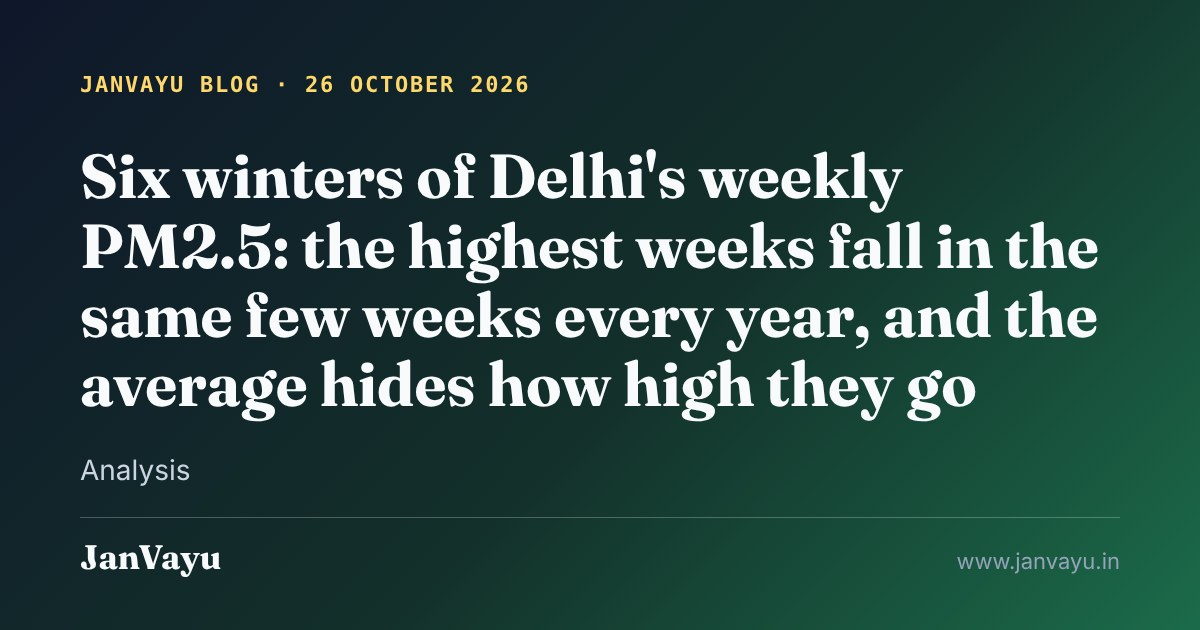
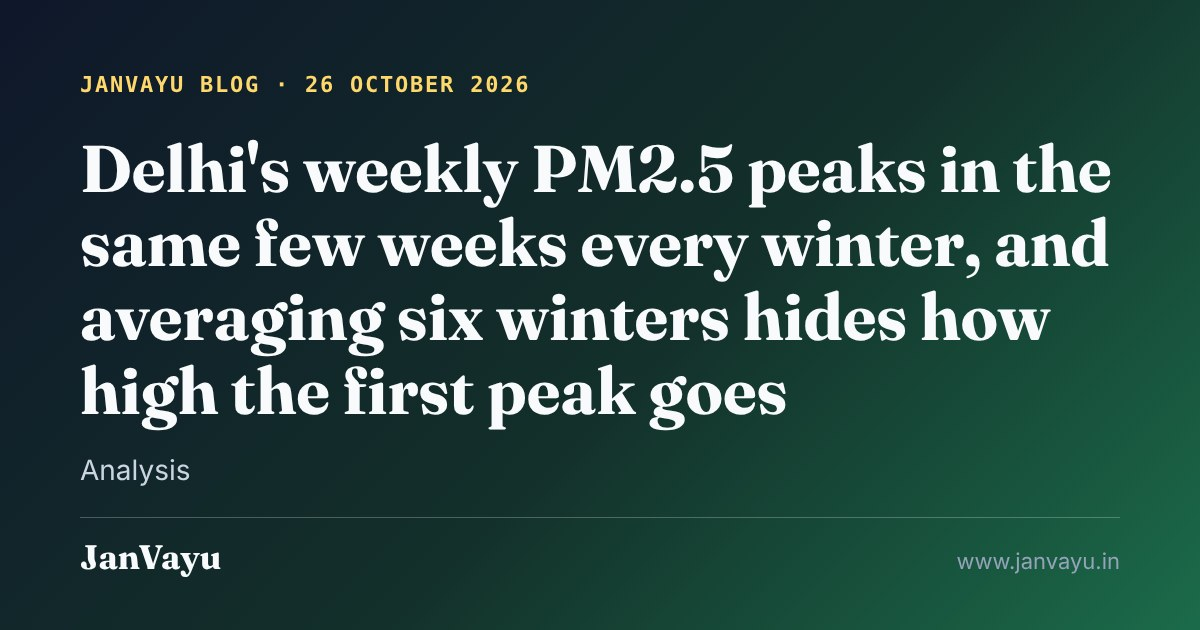
Update: lead the Delhi weekly PM2.5 post with findings, move the method to the end
The first version opened with a pipeline spec, used a colon title, hung two
sentences on colons and closed with a will and will not list that restated
the findings. The post now leads with the result, drops the colon forms,
puts where the numbers come from after the argument, and ends on the
reading rule. Facts and figures are unchanged.

Claude-Session: https://claude.ai/code/session_01ArXSkL7dvMWGkK3S6vfMTK

Changed region(s): [[0.0617, 0.2111, 0.925, 0.6937]]

diff --git a/blog/2026-10-26-delhi-six-winters-weekly-pm25/index.html b/blog/2026-10-26-delhi-six-winters-weekly-pm25/index.html
@@ -4,31 +4,31 @@
 <meta charset="UTF-8">
 <meta name="viewport" content="width=device-width, initial-scale=1.0">
 <!-- Generated by scripts/build-share.py from blog/posts/2026-10-26-delhi-six-winters-weekly-pm25.md. Edit the Markdown, then re-run the script. -->
-<title>Six winters of Delhi&#x27;s weekly PM2.5: the highest weeks fall in the same few weeks every year, and the average hides how high they go | JanVayu Blog</title>
+<title>Delhi&#x27;s weekly PM2.5 peaks in the same few weeks every winter, and averaging six winters hides how high the first peak goes | JanVayu Blog</title>
 <meta name="description" content="CEEW, the Council on Energy, Environment and Water, has posted a chart on LinkedIn titled &quot;Delhi&#x27;s air pollution peaks twice each winter&quot;. It plots Delhi&#x27;s weekly average PM2.5 from CPCB data, May…">
 <!-- share-meta:start -->
 <link rel="canonical" href="https://www.janvayu.in/blog/2026-10-26-delhi-six-winters-weekly-pm25/">
 <meta property="og:site_name" content="JanVayu">
 <meta property="og:locale" content="en_IN">
 <meta property="og:type" content="article">
-<meta property="og:title" content="Six winters of Delhi&#x27;s weekly PM2.5: the highest weeks fall in the same few weeks every year, and the average hides how high they go">
+<meta property="og:title" content="Delhi&#x27;s weekly PM2.5 peaks in the same few weeks every winter, and averaging six winters hides how high the first peak goes">
 <meta property="og:description" content="CEEW, the Council on Energy, Environment and Water, has posted a chart on LinkedIn titled &quot;Delhi&#x27;s air pollution peaks twice each winter&quot;. It plots Delhi&#x27;s weekly average PM2.5 from CPCB data, May…">
 <meta property="og:url" content="https://www.janvayu.in/blog/2026-10-26-delhi-six-winters-weekly-pm25/">
 <meta property="og:image" content="https://www.janvayu.in/og/blog/2026-10-26-delhi-six-winters-weekly-pm25.jpg">
 <meta property="og:image:width" content="1200">
 <meta property="og:image:height" content="630">
-<meta property="og:image:alt" content="JanVayu blog: Six winters of Delhi&#x27;s weekly PM2.5: the highest weeks fall in the same few weeks every year, and the average hides how high they go">
+<meta property="og:image:alt" content="JanVayu blog: Delhi&#x27;s weekly PM2.5 peaks in the same few weeks every winter, and averaging six winters hides how high the first peak goes">
 <meta name="twitter:card" content="summary_large_image">
-<meta name="twitter:title" content="Six winters of Delhi&#x27;s weekly PM2.5: the highest weeks fall in the same few weeks every year, and the average hides how high they go">
+<meta name="twitter:title" content="Delhi&#x27;s weekly PM2.5 peaks in the same few weeks every winter, and averaging six winters hides how high the first peak goes">
 <meta name="twitter:description" content="CEEW, the Council on Energy, Environment and Water, has posted a chart on LinkedIn titled &quot;Delhi&#x27;s air pollution peaks twice each winter&quot;. It plots Delhi&#x27;s weekly average PM2.5 from CPCB data, May…">
 <meta name="twitter:image" content="https://www.janvayu.in/og/blog/2026-10-26-delhi-six-winters-weekly-pm25.jpg">
-<meta name="twitter:image:alt" content="JanVayu blog: Six winters of Delhi&#x27;s weekly PM2.5: the highest weeks fall in the same few weeks every year, and the average hides how high they go">
+<meta name="twitter:image:alt" content="JanVayu blog: Delhi&#x27;s weekly PM2.5 peaks in the same few weeks every winter, and averaging six winters hides how high the first peak goes">
 <meta property="article:published_time" content="2026-10-26">
 <script type="application/ld+json">
 {
   "@context": "https://schema.org",
   "@type": "BlogPosting",
-  "headline": "Six winters of Delhi's weekly PM2.5: the highest weeks fall in the same few weeks every year, and the average hides how high they go",
+  "headline": "Delhi's weekly PM2.5 peaks in the same few weeks every winter, and averaging six winters hides how high the first peak goes",
   "description": "CEEW, the Council on Energy, Environment and Water, has posted a chart on LinkedIn titled \"Delhi's air pollution peaks twice each winter\". It plots Delhi's weekly average PM2.5 from CPCB data, May…",
   "datePublished": "2026-10-26",
   "author": {
@@ -78,18 +78,15 @@
 <body data-jv-chrome>
 <main class="container post-page" id="main-content">
 <p class="crumb"><a href="/blog/">JanVayu Blog</a> &middot; Analysis</p>
-<h1>Six winters of Delhi&#x27;s weekly PM2.5: the highest weeks fall in the same few weeks every year, and the average hides how high they go</h1>
+<h1>Delhi&#x27;s weekly PM2.5 peaks in the same few weeks every winter, and averaging six winters hides how high the first peak goes</h1>
 <article>
 <p><strong>Published:</strong> 26 October 2026 | <strong>Author:</strong> Team JanVayu | <strong>Reading time:</strong> 7 min</p>
 <hr>
 <p>CEEW, the Council on Energy, Environment and Water, has posted a chart on LinkedIn titled "Delhi's air pollution peaks twice each winter". It plots Delhi's weekly average PM2.5 from CPCB data, May to April. The first peak, 260 µg/m³, is labelled as the start of stubble burning and sits above the 250 that CPCB's index calls Severe. The second, 247, is labelled winter biomass burning. The chart's note says the values are averaged over 2023 to 2026, and that weeks after September are averaged over 2023 to 2025.</p>
-<p>XKDR Forum's archive of CPCB's monitor data, which we already use elsewhere on the site, reaches back to 2018 for Delhi, so we could draw the same chart winter by winter instead of as one average. The result agrees with CEEW on the shape and the scale. It disagrees on how high a winter's first peak goes, and it shows that the claim in the title needs a qualifier.</p>
+<p>CPCB's monitor data for Delhi reaches back to 2018, so we drew the same chart for six winters, one line each, instead of one average. The shape and the scale agree with CEEW's. Three things do not carry over from an average to a winter. One is how high the first peak goes, another is whether a single winter shows two peaks, and the third is what causes either one.</p>
 <div class="jv-dgm jv-dgm-wide"><img src="/blog/diagrams/delhi-weekly.svg" alt="Line chart of Delhi's weekly mean PM2.5 in micrograms per cubic metre from May to April. A grey band shows the lowest to highest week across six winters, 2018-19 to 2023-24, and a bold line shows their mean. The mean stays between about 30 and 60 from late June to late September, then rises to 254 in the week of 30 October, falls to 156 in the week of 11 December, rises again to 238 in the week of 18 December, and declines through February to about 80 by March. A dashed line shows winter 2024-25 to December, reaching 385 in the week of 13 November 2024. Dotted horizontal lines mark 60, the 24-hour standard, and 250, CPCB's Severe threshold."></div>
 <div class="jv-dgm jv-dgm-tall"><img src="/blog/diagrams/delhi-weekly-tall.svg" alt="" aria-hidden="true"></div>
 
-<h2>What we drew</h2>
-<p>The data are the India Air Quality Database of XKDR Forum, which carries CPCB's continuous monitors (CC BY 4.0). A station's day counts if it has at least 18 hourly readings. A city-day is the mean of the stations reporting, and we require at least 10 of them; between 10 and 39 reported on any day. A week is a seven-day block counted from 1 May, so a winter is not cut in two on 1 January.</p>
-<p>Six winters are complete, 2018-19 to 2023-24. Winter 2024-25 is drawn as a dashed line to December only. The archive has no CPCB data for January to March 2025, and its CPCB feed stops on 1 September 2025, so we cannot draw the start of this winter or the 2025 weeks CEEW's average includes. The network also grew, with 13 to 37 stations reporting a day in 2018-19 and 20 to 39 in 2022-23, so levels in early winters are not strictly like for like with later ones.</p>
 <h2>What agrees with CEEW</h2>
 <p>The six-winter mean sits at or below 60 µg/m³, the 24-hour standard, for fifteen straight weeks, from 19 June to 1 October. The lowest week of each winter ran between 17 and 28, with a mean of 23, close to the 27 CEEW gives for the monsoon. The mean peaks at 254 in the week of 30 October and at 238 in the week of 18 December, against CEEW's 260 and 247, from different years.</p>
 <p>CPCB's own bulletins give the same ordering in another unit. Pooled over 2016 to 2025, Delhi had 73 Severe days in November, 50 in December, 32 in January and 7 in October, out of about 300 days recorded for each month. It had 168, 179 and 167 Very Poor days in November, December and January. That count is of the AQI, which reports whichever pollutant scores worst, so it checks the pattern and says nothing about the PM2.5 figures.</p>
@@ -144,14 +141,14 @@
 </tbody>
 </table></div>
 <p>The first peaks average 291, and every one is above 250. The six-winter mean reaches only 254, because the winters do not peak in the same week and averaging blends a high week with its lower neighbours. A reader of the average would conclude the first peak just touches Severe. In every complete winter at least one week was above it, and in 2023-24 two were. The second peak averaged 247 and cleared 250 in two winters of six.</p>
-<p>Winter 2024-25 went higher than any of them: 385 in the week of 13 November 2024. It is incomplete, so it enters no average.</p>
+<p>Winter 2024-25 went higher than any of them. The week of 13 November 2024 reached 385. That winter is incomplete, so it enters no average.</p>
 <p>The peaks also sit inside a long season. Weekly means were above 120, the bottom of CPCB's Very Poor band, for 13 to 19 weeks of each year.</p>
 <h2>Does each winter have two peaks?</h2>
 <p>The title says yes. The data support something narrower.</p>
-<p>Every winter in the table dips between its two highest weeks, by 32% to 63% of the lower peak. That looks like two peaks, and it is also what a noisy series does. We took each winter's 15 weekly values from 16 October to 28 January, shuffled their order at random 4,000 times, and measured the same dip. Shuffled weeks give a dip of 30% or more in 91% of draws, with a median of 50%. The real winters' median is 41%. A dip between two highs is therefore no evidence of a second peak in a single winter.</p>
-<p>Two things survive the test. The first is the dip in the average of the winters. Resampling the six winters 5,000 times gives a dip of 28% to 42% (5th to 95th percentile), so the mid-December trough in the mean, 156 in the week of 11 December, is not an accident of one winter.</p>
+<p>Every winter in the table dips between its two highest weeks, by 32% to 63% of the lower peak. That looks like two peaks, and it is also what a noisy series does. We took each winter's 15 weekly values from 16 October to 28 January, shuffled their order at random thousands of times, and measured the same dip. Shuffled weeks give a dip of 30% or more in 91% of draws, with a median of 50%. The real winters' median is 41%. A dip between two highs is therefore no evidence of a second peak in a single winter.</p>
+<p>Two things survive the test. The first is the dip in the average of the winters. Resampling the six winters gives a dip of 28% to 42% in the average (5th to 95th percentile), so the mid-December trough in the mean, 156 in the week of 11 December, is not an accident of one winter.</p>
 <p>The second is timing. The first peak falls in the week of 30 October in three winters and the week of 6 November in the other three. The second falls in the week of 18 December in three winters, 25 December in two and 8 January in one. Diwali fell between 24 October and 14 November over these winters, a spread of three weeks, while the first peak week moved by one. In 2020-21 and 2023-24 the peak came before Diwali. Diwali does not set the date of the first peak, though it can add to it in the week it falls.</p>
-<h2>What the chart cannot say: why</h2>
+<h2>Why the peaks happen</h2>
 <p>CEEW labels the first peak stubble burning and the second winter biomass burning for warmth. A concentration chart carries no sources, and the published work points in several directions.</p>
 <ul>
 <li>CEEW's own blog of 22 May 2026 says weather helps explain why Delhi's autumn is far worse than its spring for similar farm fires. Average boundary-layer height in Delhi in the rabi season is twice its kharif height, and north-westerly winds in October and November carry smoke from Punjab and Haryana.</li>
@@ -159,10 +156,10 @@
 <li>Nandi and colleagues (<em>npj Clean Air</em>, April 2026) modelled September 2019 to January 2020. The residential sector was about 53% of PM2.5 over Delhi, and secondary particles about 58% in December and January. Crop-residue burning controls inside Delhi-NCR alone cut Delhi's PM2.5 by 2 to 3%. A 50% cut in residential emissions with an airshed-wide ban on crop-residue burning cut it by about 30%.</li>
 </ul>
 <p>The residential result fits CEEW's second label. We read the abstract and the results text, not the supplement, so we cannot say how much of the residential share is burning for warmth and how much is cooking. Nandi and colleagues also describe winter episodes as intense emissions meeting low winds, inversions and shallow boundary layers, which is weather. Our de-weathered series for Delhi, described in "Was it policy, or was it the wind?", covers September and October of 2018 to 2022 and does not extend to this weekly series. We cannot say how much of either peak is weather.</p>
-<h2>What we will and will not say</h2>
-<p>We will say that the highest weeks recur in the same few weeks: 30 October or 6 November, then 18 December to 8 January. We will say that every complete winter's first peak crossed 250, that the second did in two of six, and that Delhi spends 13 to 19 weeks a year above 120.</p>
-<p>We will not say that a single winter has two separate peaks, because the shuffle test cannot tell them from noise. We will not attribute either peak to a source, and we have nothing on winter 2025-26, because the archive's CPCB feed ends on 1 September 2025.</p>
-<p>As in our <a href="/blog/2026-10-25-el-nino-and-the-winter-ahead/">El Niño post</a>, the reading rule for this winter is to check the weather before crediting or blaming a policy. The grey band is the range of six winters. A week outside it needs an explanation.</p>
+<h2>Where the numbers come from</h2>
+<p>The data are the India Air Quality Database of XKDR Forum, which carries CPCB's continuous monitors (CC BY 4.0). A day at a station counts if it has at least 18 hourly readings. A day for the city is the mean of the stations reporting, and at least 10 did, up to 39. A week is a block of seven days counted from 1 May, so a winter is not cut in two on 1 January. The grey band and the bold line use the six complete winters, 2018-19 to 2023-24.</p>
+<p>Two gaps limit the chart. The archive has no CPCB data for January to March 2025, so winter 2024-25 is drawn to December only. Its CPCB feed also stops on 1 September 2025, which is why we say nothing about winter 2025-26 or about the 2025 weeks CEEW's average includes. The network grew over the period, with 13 to 37 stations reporting a day in 2018-19 and 20 to 39 in 2022-23, so levels across winters are not strictly like for like.</p>
+<p>The grey band is the range of the six winters. Before crediting or blaming a policy for a week outside it, check the weather, as we argued in our <a href="/blog/2026-10-25-el-nino-and-the-winter-ahead/">El Niño post</a>.</p>
 <hr>
 <h2>Sources</h2>
 <ul>
@@ -180,11 +177,11 @@
 </article>
 <div class="jv-share" data-share-bar>
   <span class="jv-share-label">Share</span>
-  <a href="https://wa.me/?text=Six%20winters%20of%20Delhi%27s%20weekly%20PM2.5%3A%20the%20highest%20weeks%20fall%20in%20the%20same%20few%20weeks%20every%20year%2C%20and%20the%20average%20hides%20how%20high%20they%20go%0Ahttps%3A//www.janvayu.in/blog/2026-10-26-delhi-six-winters-weekly-pm25/" target="_blank" rel="noopener">WhatsApp</a>
-  <a href="https://twitter.com/intent/tweet?text=Six%20winters%20of%20Delhi%27s%20weekly%20PM2.5%3A%20the%20highest%20weeks%20fall%20in%20the%20same%20few%20weeks%20every%20year%2C%20and%20the%20average%20hides%20how%20high%20they%20go&amp;url=https%3A//www.janvayu.in/blog/2026-10-26-delhi-six-winters-weekly-pm25/" target="_blank" rel="noopener">X</a>
+  <a href="https://wa.me/?text=Delhi%27s%20weekly%20PM2.5%20peaks%20in%20the%20same%20few%20weeks%20every%20winter%2C%20and%20averaging%20six%20winters%20hides%20how%20high%20the%20first%20peak%20goes%0Ahttps%3A//www.janvayu.in/blog/2026-10-26-delhi-six-winters-weekly-pm25/" target="_blank" rel="noopener">WhatsApp</a>
+  <a href="https://twitter.com/intent/tweet?text=Delhi%27s%20weekly%20PM2.5%20peaks%20in%20the%20same%20few%20weeks%20every%20winter%2C%20and%20averaging%20six%20winters%20hides%20how%20high%20the%20first%20peak%20goes&amp;url=https%3A//www.janvayu.in/blog/2026-10-26-delhi-six-winters-weekly-pm25/" target="_blank" rel="noopener">X</a>
   <a href="https://www.linkedin.com/sharing/share-offsite/?url=https%3A//www.janvayu.in/blog/2026-10-26-delhi-six-winters-weekly-pm25/" target="_blank" rel="noopener">LinkedIn</a>
-  <a href="https://t.me/share/url?url=https%3A//www.janvayu.in/blog/2026-10-26-delhi-six-winters-weekly-pm25/&amp;text=Six%20winters%20of%20Delhi%27s%20weekly%20PM2.5%3A%20the%20highest%20weeks%20fall%20in%20the%20same%20few%20weeks%20every%20year%2C%20and%20the%20average%20hides%20how%20high%20they%20go" target="_blank" rel="noopener">Telegram</a>
-  <a href="mailto:?subject=Six%20winters%20of%20Delhi%27s%20weekly%20PM2.5%3A%20the%20highest%20weeks%20fall%20in%20the%20same%20few%20weeks%20every%20year%2C%20and%20the%20average%20hides%20how%20high%20they%20go&amp;body=https%3A//www.janvayu.in/blog/2026-10-26-delhi-six-winters-weekly-pm25/">Email</a>
+  <a href="https://t.me/share/url?url=https%3A//www.janvayu.in/blog/2026-10-26-delhi-six-winters-weekly-pm25/&amp;text=Delhi%27s%20weekly%20PM2.5%20peaks%20in%20the%20same%20few%20weeks%20every%20winter%2C%20and%20averaging%20six%20winters%20hides%20how%20high%20the%20first%20peak%20goes" target="_blank" rel="noopener">Telegram</a>
+  <a href="mailto:?subject=Delhi%27s%20weekly%20PM2.5%20peaks%20in%20the%20same%20few%20weeks%20every%20winter%2C%20and%20averaging%20six%20winters%20hides%20how%20high%20the%20first%20peak%20goes&amp;body=https%3A//www.janvayu.in/blog/2026-10-26-delhi-six-winters-weekly-pm25/">Email</a>
 </div>
 <footer class="post-foot">
 <p><a href="/blog/">All posts</a> &middot; <a href="/blog/#/posts/2026-10-26-delhi-six-winters-weekly-pm25">Open in the blog reader</a> &middot; <a href="/">JanVayu dashboard</a></p>

diff --git a/blog/posts/2026-10-26-delhi-six-winters-weekly-pm25.md b/blog/posts/2026-10-26-delhi-six-winters-weekly-pm25.md
@@ -1,4 +1,4 @@
-# Six winters of Delhi's weekly PM2.5: the highest weeks fall in the same few weeks every year, and the average hides how high they go
+# Delhi's weekly PM2.5 peaks in the same few weeks every winter, and averaging six winters hides how high the first peak goes
 
 **Published:** 26 October 2026 | **Author:** Team JanVayu | **Reading time:** 7 min
 
@@ -6,16 +6,10 @@
 
 CEEW, the Council on Energy, Environment and Water, has posted a chart on LinkedIn titled "Delhi's air pollution peaks twice each winter". It plots Delhi's weekly average PM2.5 from CPCB data, May to April. The first peak, 260 µg/m³, is labelled as the start of stubble burning and sits above the 250 that CPCB's index calls Severe. The second, 247, is labelled winter biomass burning. The chart's note says the values are averaged over 2023 to 2026, and that weeks after September are averaged over 2023 to 2025.
 
-XKDR Forum's archive of CPCB's monitor data, which we already use elsewhere on the site, reaches back to 2018 for Delhi, so we could draw the same chart winter by winter instead of as one average. The result agrees with CEEW on the shape and the scale. It disagrees on how high a winter's first peak goes, and it shows that the claim in the title needs a qualifier.
+CPCB's monitor data for Delhi reaches back to 2018, so we drew the same chart for six winters, one line each, instead of one average. The shape and the scale agree with CEEW's. Three things do not carry over from an average to a winter. One is how high the first peak goes, another is whether a single winter shows two peaks, and the third is what causes either one.
 
 <div class="jv-dgm jv-dgm-wide"><img src="/blog/diagrams/delhi-weekly.svg" alt="Line chart of Delhi's weekly mean PM2.5 in micrograms per cubic metre from May to April. A grey band shows the lowest to highest week across six winters, 2018-19 to 2023-24, and a bold line shows their mean. The mean stays between about 30 and 60 from late June to late September, then rises to 254 in the week of 30 October, falls to 156 in the week of 11 December, rises again to 238 in the week of 18 December, and declines through February to about 80 by March. A dashed line shows winter 2024-25 to December, reaching 385 in the week of 13 November 2024. Dotted horizontal lines mark 60, the 24-hour standard, and 250, CPCB's Severe threshold."></div>
 <div class="jv-dgm jv-dgm-tall"><img src="/blog/diagrams/delhi-weekly-tall.svg" alt="" aria-hidden="true"></div>
-
-## What we drew
-
-The data are the India Air Quality Database of XKDR Forum, which carries CPCB's continuous monitors (CC BY 4.0). A station's day counts if it has at least 18 hourly readings. A city-day is the mean of the stations reporting, and we require at least 10 of them; between 10 and 39 reported on any day. A week is a seven-day block counted from 1 May, so a winter is not cut in two on 1 January.
-
-Six winters are complete, 2018-19 to 2023-24. Winter 2024-25 is drawn as a dashed line to December only. The archive has no CPCB data for January to March 2025, and its CPCB feed stops on 1 September 2025, so we cannot draw the start of this winter or the 2025 weeks CEEW's average includes. The network also grew, with 13 to 37 stations reporting a day in 2018-19 and 20 to 39 in 2022-23, so levels in early winters are not strictly like for like with later ones.
 
 ## What agrees with CEEW
 
@@ -38,7 +32,7 @@ Each winter has its own first peak, and it is higher than the mean of the winter
 
 The first peaks average 291, and every one is above 250. The six-winter mean reaches only 254, because the winters do not peak in the same week and averaging blends a high week with its lower neighbours. A reader of the average would conclude the first peak just touches Severe. In every complete winter at least one week was above it, and in 2023-24 two were. The second peak averaged 247 and cleared 250 in two winters of six.
 
-Winter 2024-25 went higher than any of them: 385 in the week of 13 November 2024. It is incomplete, so it enters no average.
+Winter 2024-25 went higher than any of them. The week of 13 November 2024 reached 385. That winter is incomplete, so it enters no average.
 
 The peaks also sit inside a long season. Weekly means were above 120, the bottom of CPCB's Very Poor band, for 13 to 19 weeks of each year.
 
@@ -46,13 +40,13 @@ The peaks also sit inside a long season. Weekly means were above 120, the bottom
 
 The title says yes. The data support something narrower.
 
-Every winter in the table dips between its two highest weeks, by 32% to 63% of the lower peak. That looks like two peaks, and it is also what a noisy series does. We took each winter's 15 weekly values from 16 October to 28 January, shuffled their order at random 4,000 times, and measured the same dip. Shuffled weeks give a dip of 30% or more in 91% of draws, with a median of 50%. The real winters' median is 41%. A dip between two highs is therefore no evidence of a second peak in a single winter.
+Every winter in the table dips between its two highest weeks, by 32% to 63% of the lower peak. That looks like two peaks, and it is also what a noisy series does. We took each winter's 15 weekly values from 16 October to 28 January, shuffled their order at random thousands of times, and measured the same dip. Shuffled weeks give a dip of 30% or more in 91% of draws, with a median of 50%. The real winters' median is 41%. A dip between two highs is therefore no evidence of a second peak in a single winter.
 
-Two things survive the test. The first is the dip in the average of the winters. Resampling the six winters 5,000 times gives a dip of 28% to 42% (5th to 95th percentile), so the mid-December trough in the mean, 156 in the week of 11 December, is not an accident of one winter.
+Two things survive the test. The first is the dip in the average of the winters. Resampling the six winters gives a dip of 28% to 42% in the average (5th to 95th percentile), so the mid-December trough in the mean, 156 in the week of 11 December, is not an accident of one winter.
 
 The second is timing. The first peak falls in the week of 30 October in three winters and the week of 6 November in the other three. The second falls in the week of 18 December in three winters, 25 December in two and 8 January in one. Diwali fell between 24 October and 14 November over these winters, a spread of three weeks, while the first peak week moved by one. In 2020-21 and 2023-24 the peak came before Diwali. Diwali does not set the date of the first peak, though it can add to it in the week it falls.
 
-## What the chart cannot say: why
+## Why the peaks happen
 
 CEEW labels the first peak stubble burning and the second winter biomass burning for warmth. A concentration chart carries no sources, and the published work points in several directions.
 
@@ -62,13 +56,13 @@ CEEW labels the first peak stubble burning and the second winter biomass burning
 
 The residential result fits CEEW's second label. We read the abstract and the results text, not the supplement, so we cannot say how much of the residential share is burning for warmth and how much is cooking. Nandi and colleagues also describe winter episodes as intense emissions meeting low winds, inversions and shallow boundary layers, which is weather. Our de-weathered series for Delhi, described in "Was it policy, or was it the wind?", covers September and October of 2018 to 2022 and does not extend to this weekly series. We cannot say how much of either peak is weather.
 
-## What we will and will not say
+## Where the numbers come from
 
-We will say that the highest weeks recur in the same few weeks: 30 October or 6 November, then 18 December to 8 January. We will say that every complete winter's first peak crossed 250, that the second did in two of six, and that Delhi spends 13 to 19 weeks a year above 120.
+The data are the India Air Quality Database of XKDR Forum, which carries CPCB's continuous monitors (CC BY 4.0). A day at a station counts if it has at least 18 hourly readings. A day for the city is the mean of the stations reporting, and at least 10 did, up to 39. A week is a block of seven days counted from 1 May, so a winter is not cut in two on 1 January. The grey band and the bold line use the six complete winters, 2018-19 to 2023-24.
 
-We will not say that a single winter has two separate peaks, because the shuffle test cannot tell them from noise. We will not attribute either peak to a source, and we have nothing on winter 2025-26, because the archive's CPCB feed ends on 1 September 2025.
+Two gaps limit the chart. The archive has no CPCB data for January to March 2025, so winter 2024-25 is drawn to December only. Its CPCB feed also stops on 1 September 2025, which is why we say nothing about winter 2025-26 or about the 2025 weeks CEEW's average includes. The network grew over the period, with 13 to 37 stations reporting a day in 2018-19 and 20 to 39 in 2022-23, so levels across winters are not strictly like for like.
 
-As in our [El Niño post](2026-10-25-el-nino-and-the-winter-ahead.md), the reading rule for this winter is to check the weather before crediting or blaming a policy. The grey band is the range of six winters. A week outside it needs an explanation.
+The grey band is the range of the six winters. Before crediting or blaming a policy for a week outside it, check the weather, as we argued in our [El Niño post](2026-10-25-el-nino-and-the-winter-ahead.md).
 
 ---
 

diff --git a/blog/README.md b/blog/README.md
@@ -10,7 +10,7 @@ Data, research, policy accountability, and what the numbers mean for 1.4 billion
 
 | Date | Post | Topic |
 |------|------|-------|
-| 26 Oct 2026 | [Six winters of Delhi's weekly PM2.5: the highest weeks fall in the same few weeks every year, and the average hides how high they go](posts/2026-10-26-delhi-six-winters-weekly-pm25.md) | Analysis |
+| 26 Oct 2026 | [Delhi's weekly PM2.5 peaks in the same few weeks every winter, and averaging six winters hides how high the first peak goes](posts/2026-10-26-delhi-six-winters-weekly-pm25.md) | Analysis |
 | 25 Oct 2026 | [A very strong El Niño is forecast, and one study asks what it did to winter air last time](posts/2026-10-25-el-nino-and-the-winter-ahead.md) | Analysis |
 | 25 Oct 2026 | [Ammonia, the other half of secondary PM2.5, checked against what has been published](posts/2026-10-25-ammonia-the-other-half.md) | Fact check |
 | 19 Oct 2026 | [Delhi's 211 days of good-to-moderate air, checked day by day](posts/2026-10-19-delhi-211-days-checked.md) | Fact check |

diff --git a/blog/_sidebar.md b/blog/_sidebar.md
@@ -4,7 +4,7 @@
 - [How We Write (contributor guide)](how-we-write.md)
 
 - **October 2026**
-  - [Six winters of Delhi's weekly PM2.5: the highest weeks fall in the same few weeks every year, and the average hides how high they go](posts/2026-10-26-delhi-six-winters-weekly-pm25.md)
+  - [Delhi's weekly PM2.5 peaks in the same few weeks every winter, and averaging six winters hides how high the first peak goes](posts/2026-10-26-delhi-six-winters-weekly-pm25.md)
   - [A very strong El Niño is forecast, and one study asks what it did to winter air last time](posts/2026-10-25-el-nino-and-the-winter-ahead.md)
   - [Ammonia, the other half of secondary PM2.5, checked against what has been published](posts/2026-10-25-ammonia-the-other-half.md)
   - [Delhi's 211 days of good-to-moderate air, checked day by day](posts/2026-10-19-delhi-211-days-checked.md)
